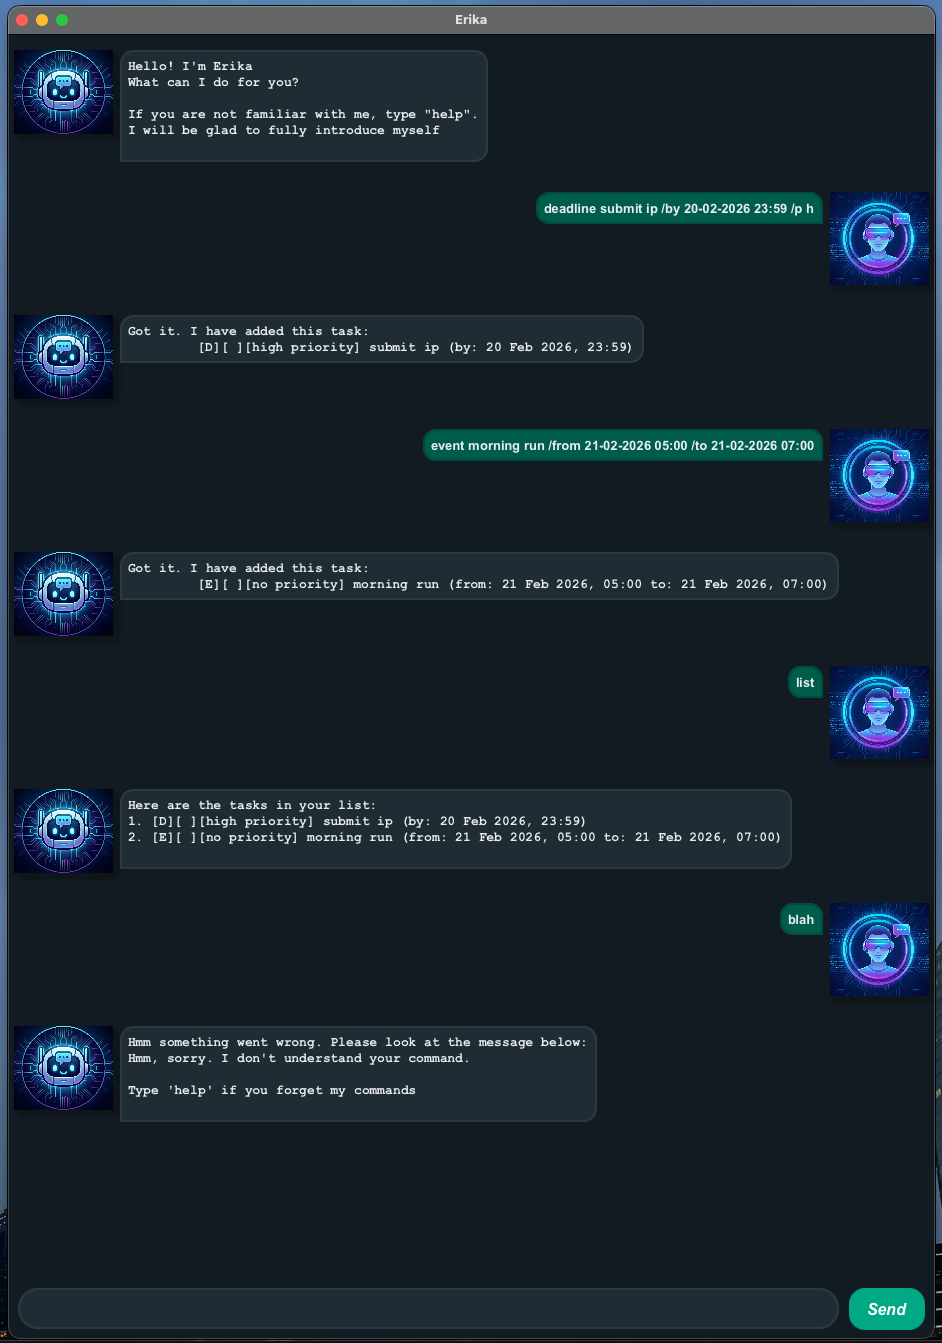
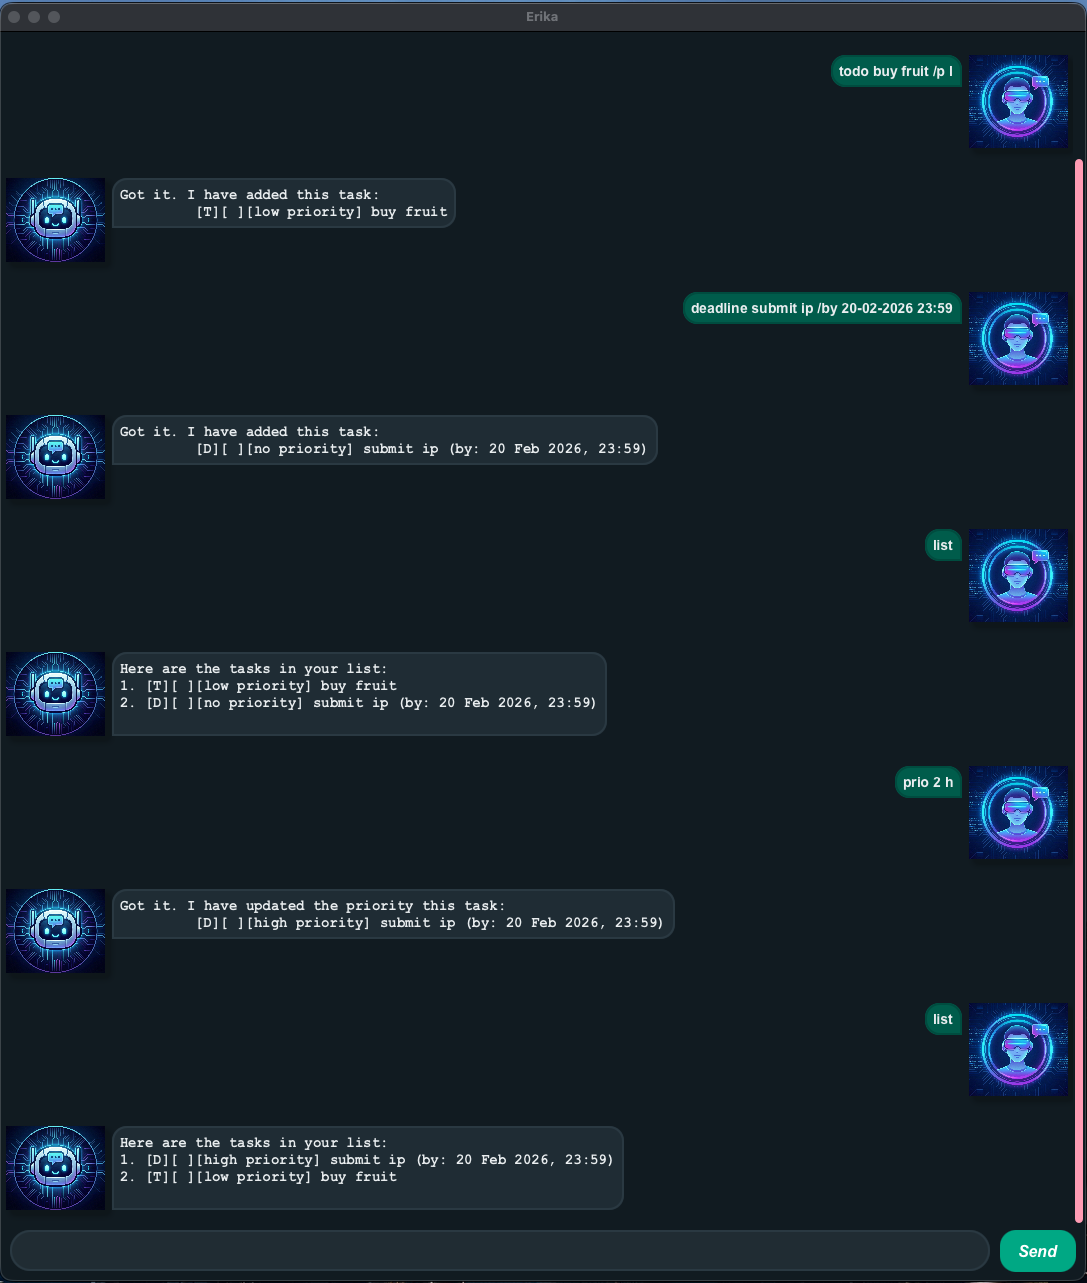
Fix dialogue font size

diff --git a/src/main/resources/css/dialog-box.css b/src/main/resources/css/dialog-box.css
@@ -9,6 +9,7 @@
     -fx-font-family: "arial";
     -fx-font-weight: bold;
     -fx-text-fill: #e9edef;
+    -fx-font-size: 14px;
 }
 
 .reply-label {

diff --git a/docs/README.md b/docs/README.md
@@ -1,6 +1,6 @@
 # Erika User Guide
 ## Product screenshot
-<img src="Ui.png" alt="Product screenshot" style="width: 400px;">
+<img src="Ui.png" width="400px">
 <br>
 <br>
 <br>
@@ -126,13 +126,13 @@ Manual saving is unnecessary.
 ### Editing the data file
 The file is saved in [JAR file location]/data/ErikaDatabase.txt <br>
 
-> [!CAUTION]
+> **Caution!** <br>
 > Editing the file manually may cause instantiation failure of the application.
 
-> [!IMPORTANT]
+> **Important!** <br>
 > If the application suffers from instantiation failure, delete ErikaDatabase.txt and try again.
 
-> [!TIP]
+> **Tip** <br>
 > Only edit the list of tasks through the application.
 
 <br>
